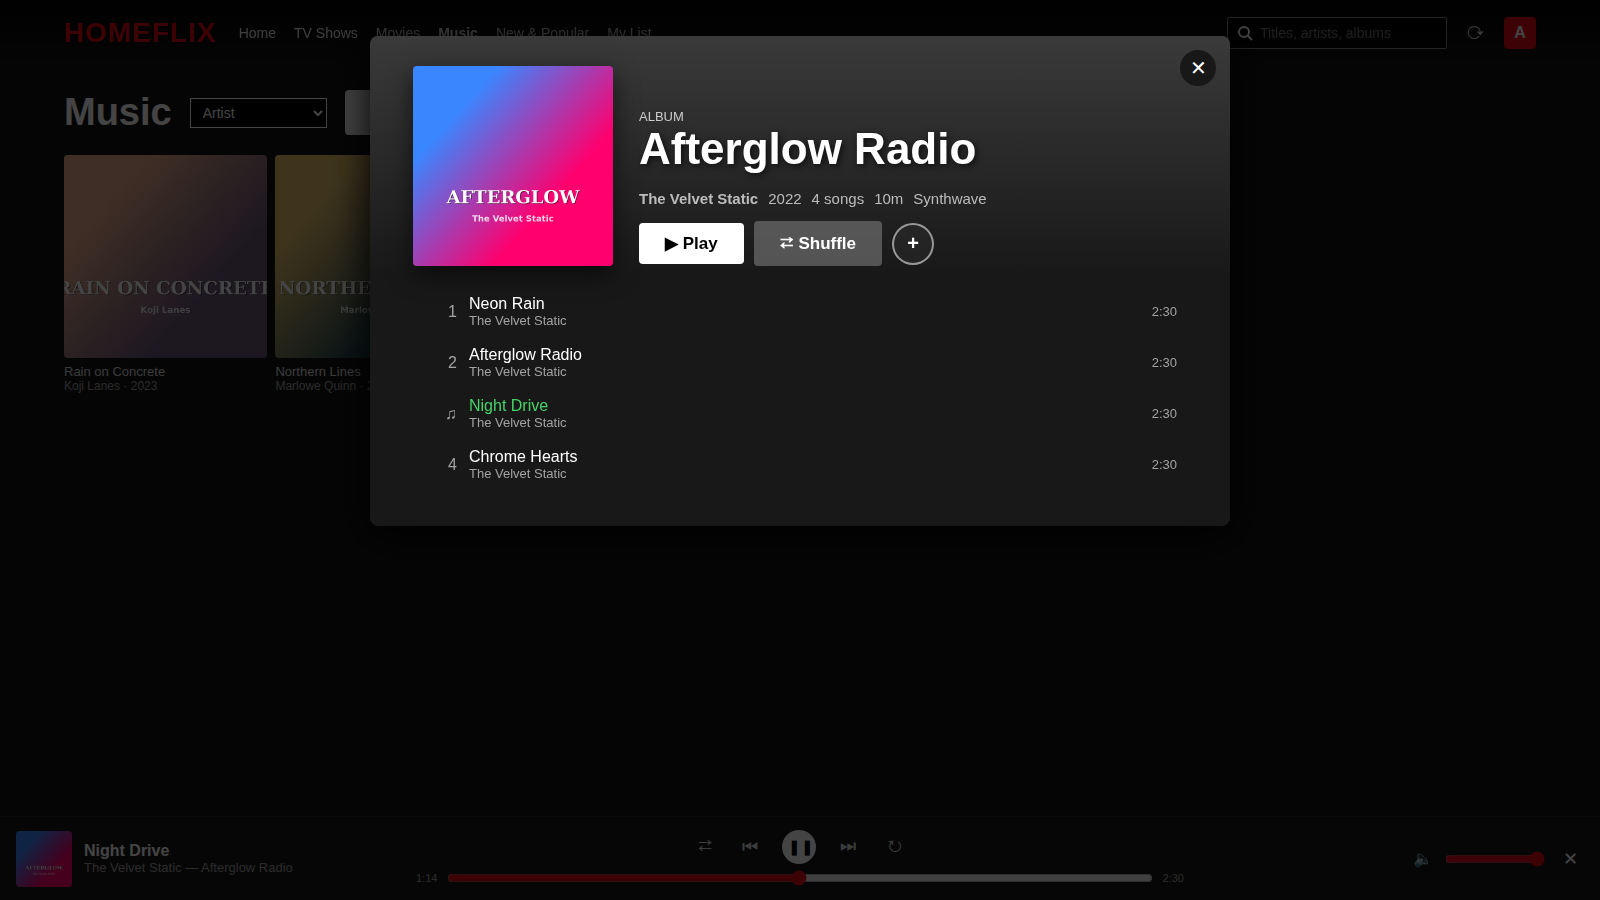
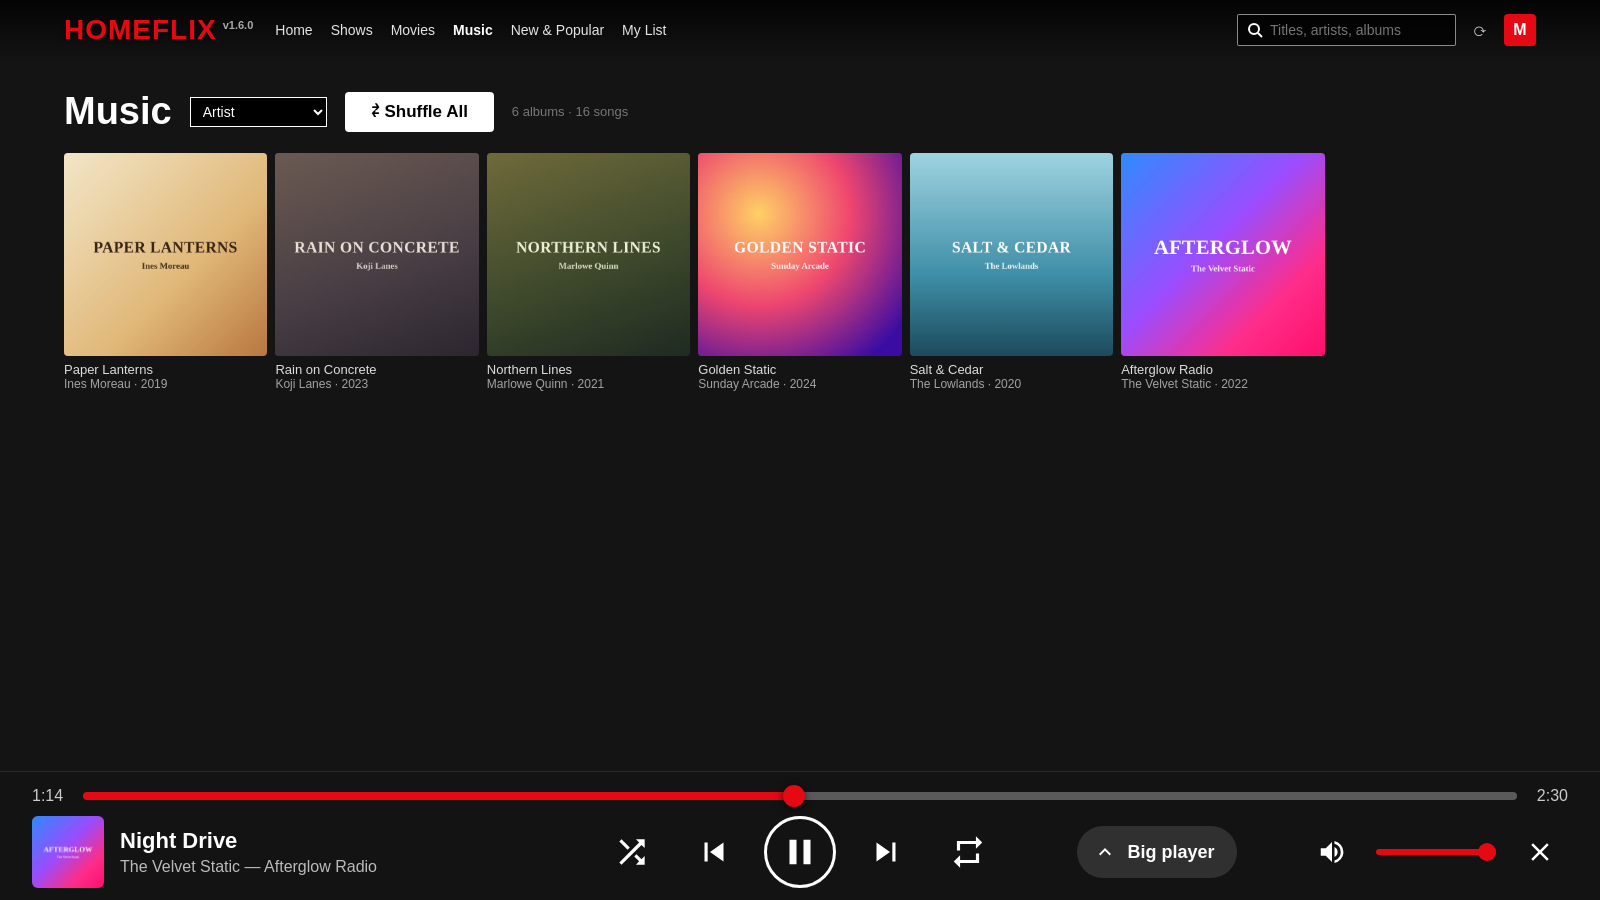
README: new music screenshot with the TV-style desktop music bar

diff --git a/README.md b/README.md
@@ -81,7 +81,7 @@ It's one file and uses nothing outside the Python standard library. You can read
 - On phones the music bar has **big previous / play / next buttons**, a **Big player** button, and a slider along its top edge: **tap anywhere on it to jump** to that part of the song, or drag.
 - A **Now Playing** screen with big, easy-to-hit buttons for phones: tap **Big player** (or the song) to open it. **Previous / Next** sit up top, then a progress bar you can tap or drag anywhere, then **back 15 s · play · forward 15 s** (double-tap to skip 30 s). It keeps the screen on while it's open, and works sideways in a car mount.
 
-<p align="center"><img src="docs/screenshots/music.png" alt="Album view with the track list, the current track highlighted, and the music player bar at the bottom" width="100%"></p>
+<p align="center"><img src="docs/screenshots/music.png" alt="The Music page on a computer: a row of album covers, and the music bar at the bottom with a red progress bar, big shuffle, previous, pause, next and repeat buttons, a Big player button, volume and close" width="100%"></p>
 
 ### Skips the commercials in TV recordings (optional)
 - **Off until you turn it on**, so a library of movies never sees an ad button. Turn it on by adding this line to your settings file (see [Where things live](#-where-things-live)) and restarting Homeflix:
